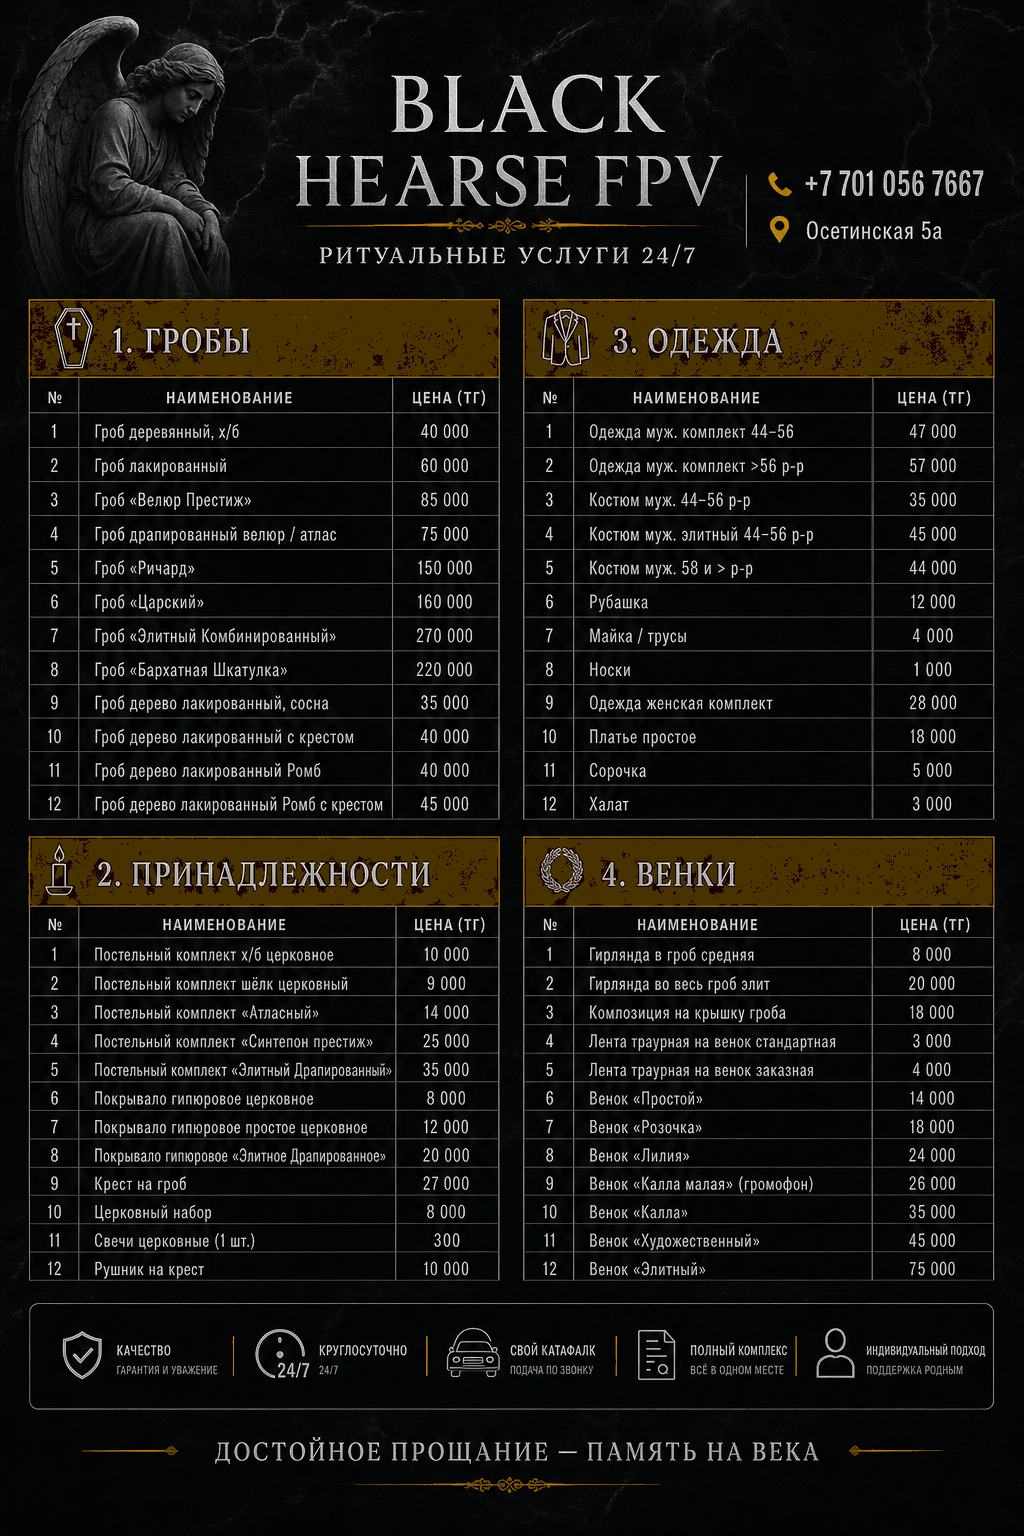
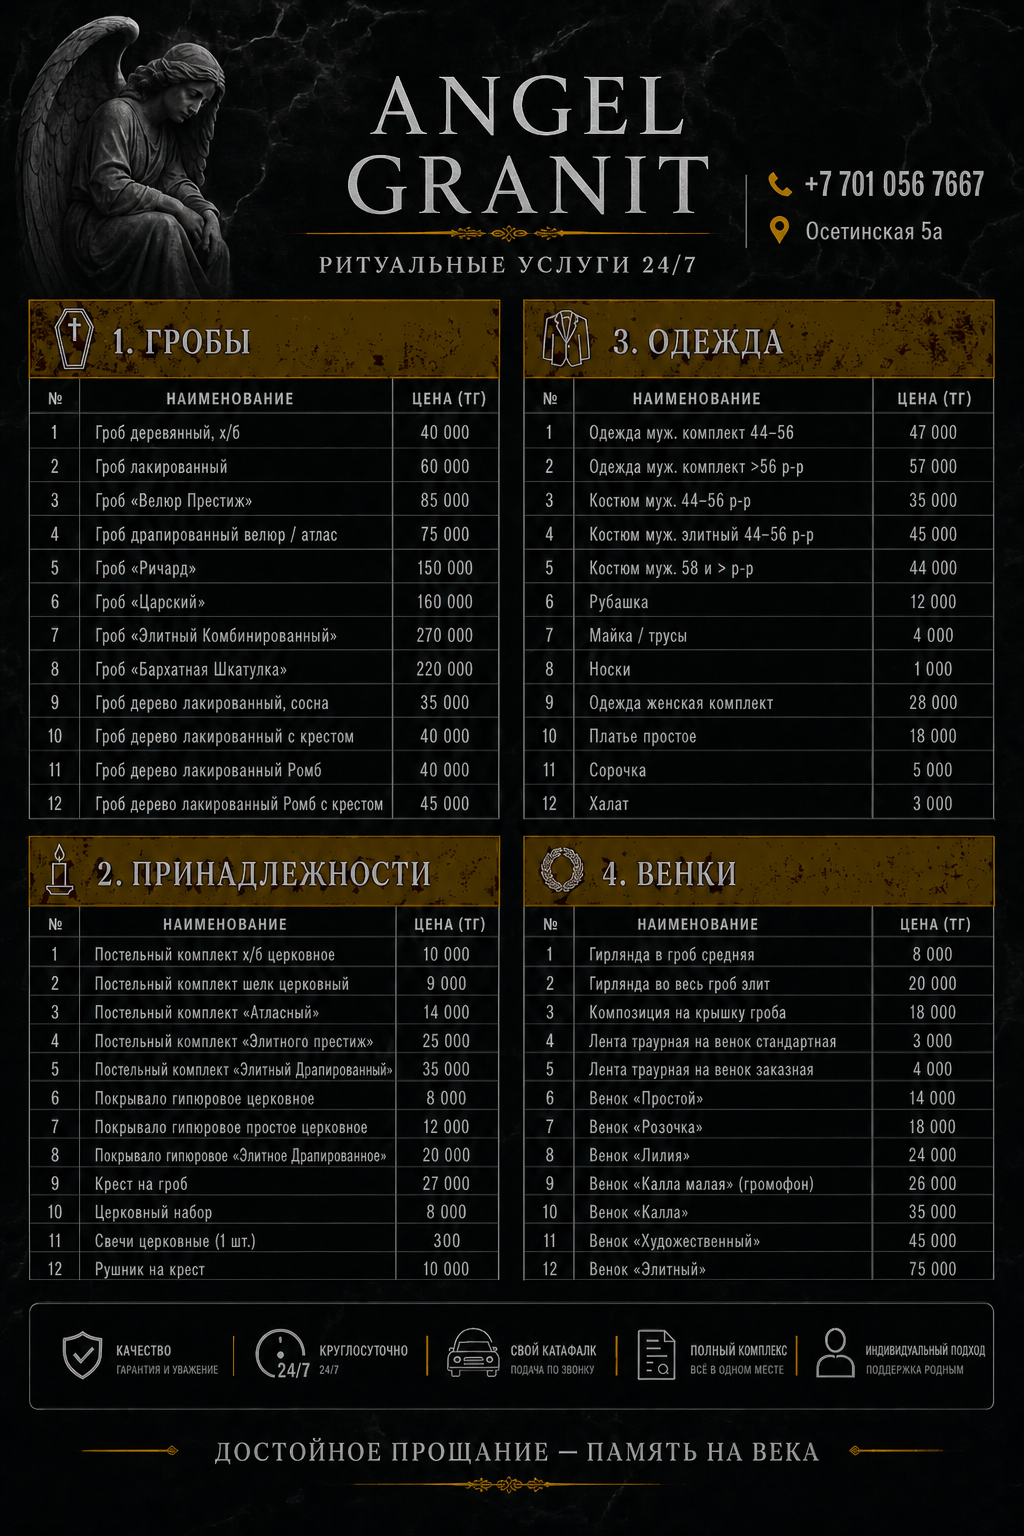
Replace Black Hearse FPV branding with Angel Granit on price and share images.

diff --git a/index.html b/index.html
@@ -2324,7 +2324,7 @@
           <figure class="calc-poster__card">
             <span>прайс · лист 1</span>
             <img
-              src="images/price-list.png"
+              src="images/price-list.png?v=ag1"
               alt="Прайс-лист 1 AngelGranit — гробы, принадлежности, одежда, венки"
               width="900"
               height="1200"
@@ -2335,7 +2335,7 @@
           <figure class="calc-poster__card">
             <span>прайс · лист 2</span>
             <img
-              src="images/price-list-2.png"
+              src="images/price-list-2.png?v=ag1"
               alt="Прайс-лист 2 AngelGranit — надгробия, оградки, транспорт, спецбригада"
               width="900"
               height="1200"
@@ -2588,7 +2588,7 @@
         <div class="share__media">
           <figure class="share__visual">
             <img
-              src="images/share-repost.png"
+              src="images/share-repost.png?v=ag1"
               alt="Сохраните наш номер и поделитесь ссылкой в трудную минуту — AngelGranit, Александр +7 701 056 7667"
               width="900"
               height="1200"

diff --git a/scripts/replace_brand_images.py b/scripts/replace_brand_images.py
@@ -1,0 +1,88 @@
+# -*- coding: utf-8 -*-
+"""Replace Black Hearse brand text with Angel Granit via surgical overlay + use generated assets."""
+from pathlib import Path
+from PIL import Image, ImageDraw, ImageFont, ImageFilter
+import shutil
+
+ROOT = Path(".")
+ASSETS = Path(r"C:\Users\РС\.cursor\projects\c-Users-OneDrive-Desktop-AngelGranit-temp\assets")
+BACKUP = Path("images/_backup_red")
+BACKUP.mkdir(parents=True, exist_ok=True)
+
+
+def find_font(size):
+    candidates = [
+        r"C:\Windows\Fonts\times.ttf",
+        r"C:\Windows\Fonts\timesbd.ttf",
+        r"C:\Windows\Fonts\georgia.ttf",
+        r"C:\Windows\Fonts\georgiab.ttf",
+        r"C:\Windows\Fonts\arial.ttf",
+    ]
+    for c in candidates:
+        p = Path(c)
+        if p.exists():
+            return ImageFont.truetype(str(p), size=size)
+    return ImageFont.load_default()
+
+
+def patch_title(path: Path, cover_box, text="ANGEL GRANIT", fill=(245, 242, 234), font_size=54):
+    """cover_box = (left, top, right, bottom)"""
+    im = Image.open(path).convert("RGB")
+    draw = ImageDraw.Draw(im)
+    # sample background near cover for fill color
+    l, t, r, b = cover_box
+    samples = []
+    for y in range(max(0, t - 4), max(1, t)):
+        for x in range(l, min(r, im.width)):
+            samples.append(im.getpixel((x, y)))
+    if samples:
+        bg = tuple(sum(c[i] for c in samples) // len(samples) for i in range(3))
+    else:
+        bg = (20, 20, 22)
+    # soft cover
+    overlay = Image.new("RGB", im.size, bg)
+    mask = Image.new("L", im.size, 0)
+    md = ImageDraw.Draw(mask)
+    md.rectangle(cover_box, fill=255)
+    mask = mask.filter(ImageFilter.GaussianBlur(2))
+    im = Image.composite(overlay, im, mask)
+    draw = ImageDraw.Draw(im)
+    font = find_font(font_size)
+    # measure text
+    bbox = draw.textbbox((0, 0), text, font=font)
+    tw, th = bbox[2] - bbox[0], bbox[3] - bbox[1]
+    cx = (l + r) // 2
+    cy = (t + b) // 2
+    x = cx - tw // 2
+    y = cy - th // 2
+    draw.text((x, y), text, font=font, fill=fill)
+    return im
+
+
+def use_generated(src_name, dest_rel, size):
+    src = ASSETS / src_name
+    dest = Path("images") / dest_rel
+    if not src.exists():
+        print("missing generated", src)
+        return False
+    bak = BACKUP / (dest_rel.replace("/", "__") + ".prebrand")
+    if dest.exists() and not bak.exists():
+        shutil.copy2(dest, bak)
+    im = Image.open(src).convert("RGB")
+    if im.size != size:
+        im = im.resize(size, Image.Resampling.LANCZOS)
+    im.save(dest, format="PNG", optimize=True)
+    print("wrote", dest, im.size, dest.stat().st_size)
+    return True
+
+
+def main():
+    # Prefer generated full rebrands (already say ANGEL GRANIT)
+    use_generated("price-list-angelgranit.png", "price-list.png", (1024, 1536))
+    use_generated("price-list-2-angelgranit.png", "price-list-2.png", (1024, 1536))
+    use_generated("share-repost-angelgranit.png", "share-repost.png", (1024, 1536))
+
+    # Surgical fallback / extra polish if any leftover on banner etc — skip packages (no brand text)
+
+if __name__ == "__main__":
+    main()
